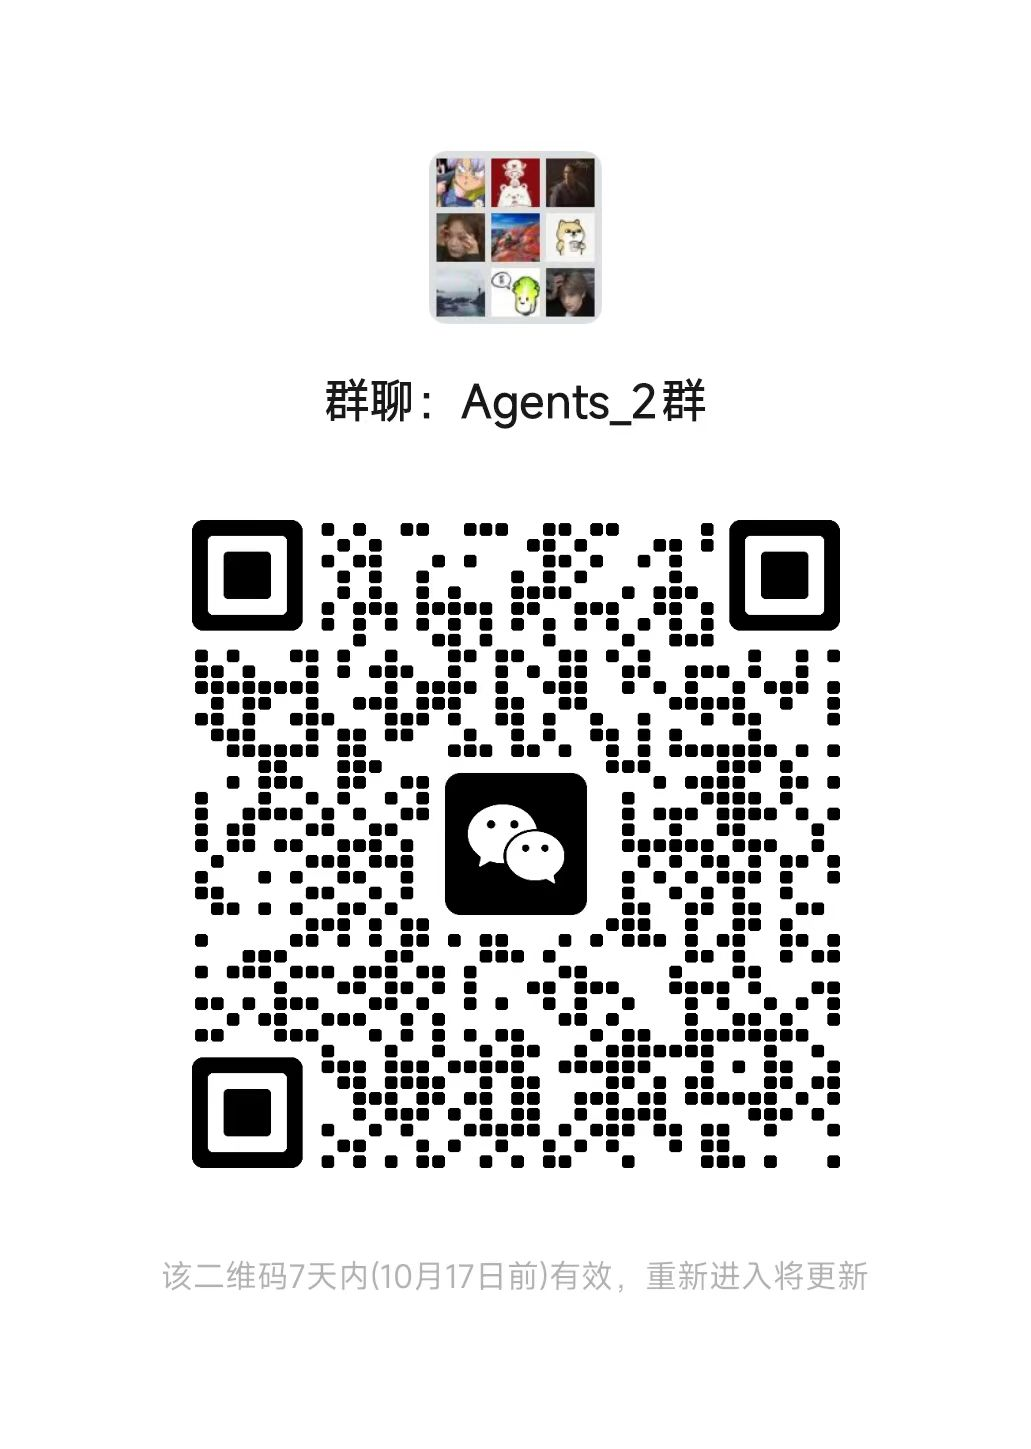
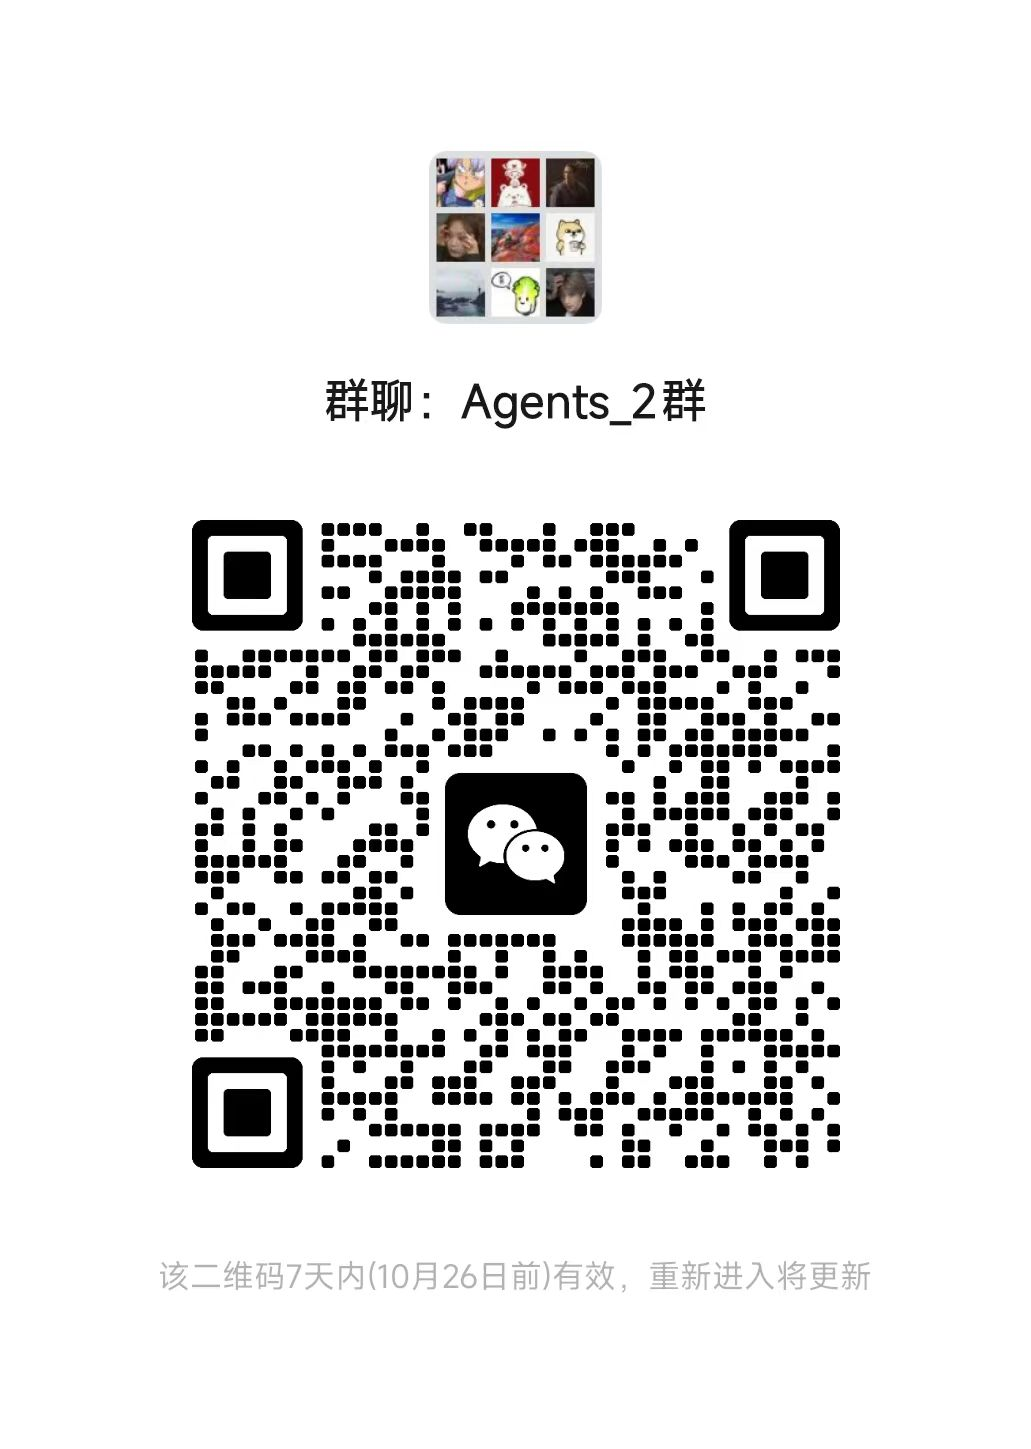
update wechat

diff --git a/examples/sop_generation/gen_single_agent/design_states.py b/examples/sop_generation/gen_single_agent/design_states.py
@@ -4,7 +4,7 @@ from agents.utils import extract
 from single_prompts import *
 
 
-llm = OpenAILLM()
+llm = OpenAILLM(model = "gpt-4")
 # design state
 
 def get_cot_result(target):

diff --git a/src/agents/Component/ExtraComponent.py b/src/agents/Component/ExtraComponent.py
@@ -126,3 +126,5 @@ class CategoryRequirementsComponent(ToolComponent):
         outputdict["prompt"] = prompt
         return outputdict
 
+
+
